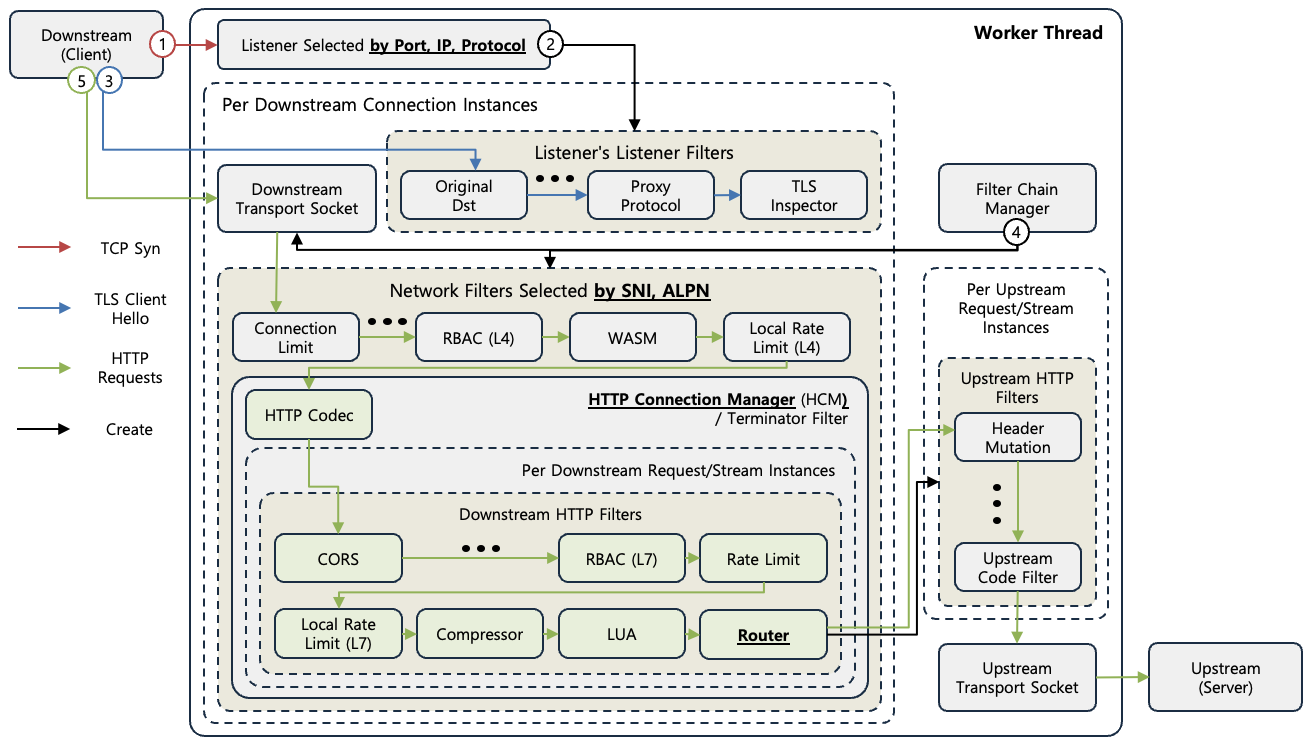
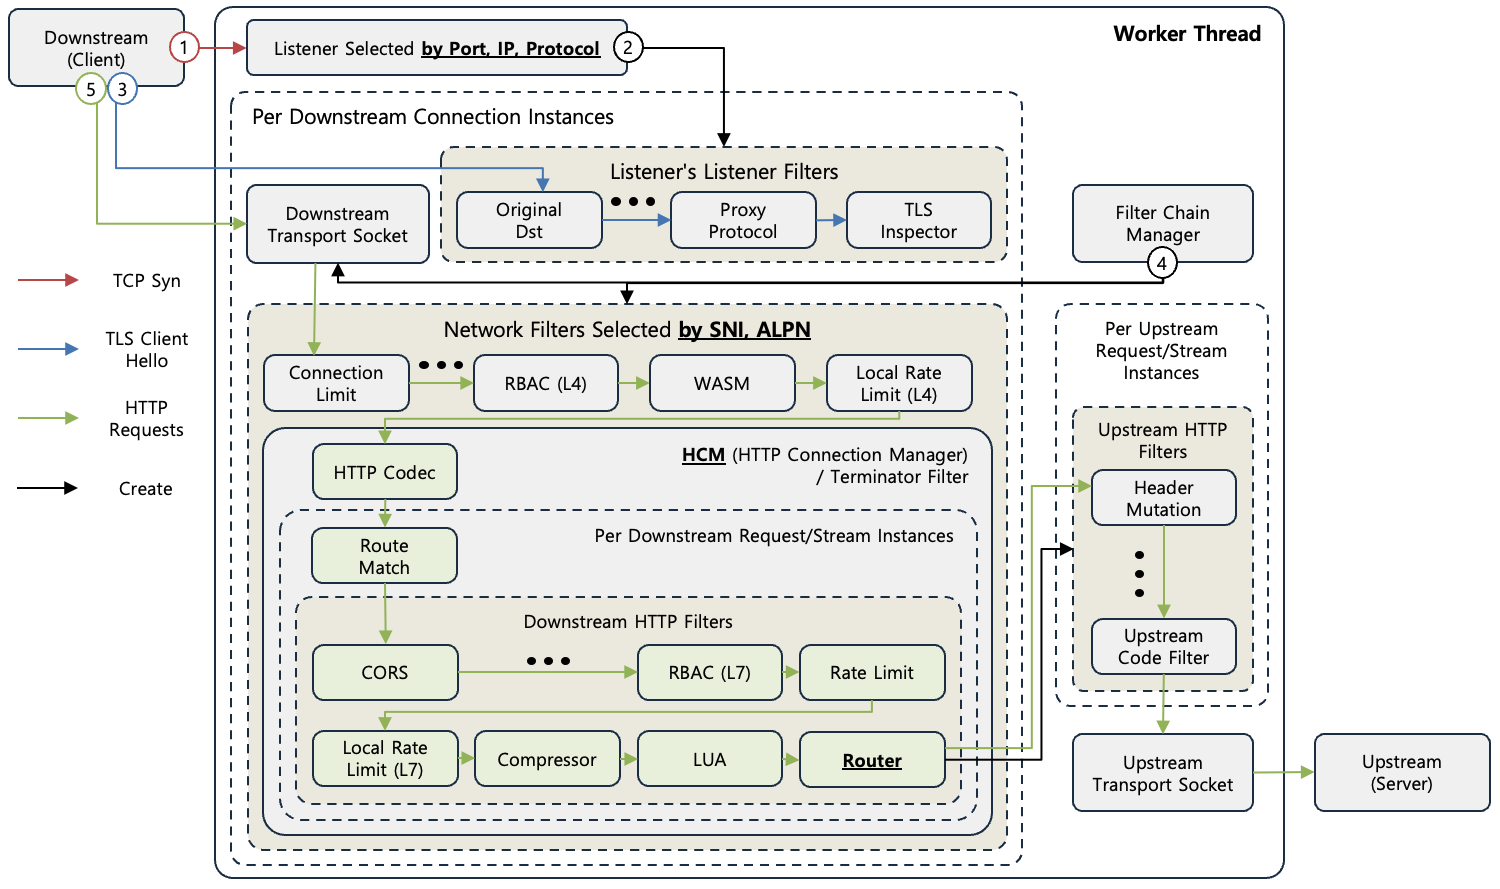
Add Route Match to Envoy traffic processing post for updated figure

Changed region(s): [[0.0, 0.0, 0.9992, 0.9866], [0.8431, 0.9558, 0.8743, 0.9866]]

diff --git a/content/docs/theory-analysis/envoy-traffic-processing/index.en.md b/content/docs/theory-analysis/envoy-traffic-processing/index.en.md
@@ -95,7 +95,11 @@ The **HTTP Connection Manager** (HCM) operates as the Terminal Network Filter th
 
 When request Traffic is sent from the Downstream to the Upstream, the **HTTP Codec** decodes the Stream and separates the Header and Body so that HTTP Filters can process it in a consistent form regardless of the HTTP Protocol Version. Conversely, when response Traffic is sent from the Upstream to the Downstream, it encodes the Stream to match the HTTP Protocol Version in use by the Downstream and sends it.
 
-##### 1.5.1.2. Downstream HTTP Filter
+##### 1.5.1.2. Route Match
+
+**Route Match** is responsible for selecting the Route that will handle a request from the Route Config, based on the request Headers separated by the HTTP Codec. A Route is selected by comparing the Domains of the Virtual Hosts and the Path, Header, and Query Parameter Match conditions of each Route, and the selected Route is cached in the Stream and referenced in later stages. Since Route Match runs before the Downstream HTTP Filters, each Downstream HTTP Filter can apply its behavior differently per Route by referring to the per-Route configuration (`typed_per_filter_config`) set on the selected Route.
+
+##### 1.5.1.3. Downstream HTTP Filter
 
 The **Downstream HTTP Filter** processes Traffic on an L7 basis before handing it to the Router. It can perform various functions such as authentication/authorization, Traffic limiting, and Traffic transformation. Downstream HTTP Filters can also be freely reordered, but the Router Filter must be located last.
 
@@ -130,9 +134,9 @@ The custom logic Filters provided by Envoy are as follows.
 * `envoy.filters.http.buffer` : Buffers the entire request.
 * `envoy.filters.http.health_check` : Handles a specific path as the Health Check response.
 
-##### 1.5.1.3. Router Filter
+##### 1.5.1.4. Router Filter
 
-The **Router Filter** is the Terminal Filter located at the end of the Downstream HTTP Filters, responsible for sending the request to the actual Upstream. For a request that has passed all the preceding Filters, it determines the **Target Cluster** according to the rules of the Route Config. Then, unhealthy Hosts among the Hosts belonging to the Cluster are excluded through the **Outlier Detection** policy. Afterwards, the actual Host is selected from the remaining healthy Hosts according to the **Load Balancing** policy, and the request is delivered through the connection to that Host.
+The **Router Filter** is the Terminal Filter located at the end of the Downstream HTTP Filters, responsible for sending the request to the actual Upstream. For a request that has passed all the preceding Filters, it determines the **Target Cluster** specified in the Route selected by Route Match. Then, unhealthy Hosts among the Hosts belonging to the Cluster are excluded through the **Outlier Detection** policy. Afterwards, the actual Host is selected from the remaining healthy Hosts according to the **Load Balancing** policy, and the request is delivered through the connection to that Host.
 
 The Router Filter provides the following Load Balancing policies.
 
@@ -203,6 +207,7 @@ static_resources:
         stat_prefix: ingress_http
         codec_type: AUTO                              # ── 7. HTTP Codec ──
 
+        # ── 8. Route Match ─────────────────────────────────────
         route_config:
           name: local_route
           virtual_hosts:
@@ -212,7 +217,7 @@ static_resources:
             - match: { prefix: "/" }
               route: { cluster: backend }
 
-        # ── 8. Downstream HTTP Filter ──────────────────────────
+        # ── 9. Downstream HTTP Filter ──────────────────────────
         http_filters:
         - name: envoy.filters.http.cors
         - name: envoy.filters.http.jwt_authn
@@ -221,7 +226,7 @@ static_resources:
         - name: envoy.filters.http.compressor
         - name: envoy.filters.http.lua
 
-        # ── 9. Router Filter (terminal filter of the downstream chain) ──
+        # ── 10. Router Filter (terminal filter of the downstream chain) ──
         - name: envoy.filters.http.router
 
     # (b) Match by ALPN — route h2 traffic to this chain
@@ -252,27 +257,27 @@ static_resources:
         explicit_http_config:
           http_protocol_options: {}
 
-        # ── 10. Upstream HTTP Filter ──────────────────────────
+        # ── 11. Upstream HTTP Filter ──────────────────────────
         http_filters:
         - name: envoy.filters.http.header_mutation
         - name: envoy.filters.http.lua
         - name: envoy.filters.http.upstream_codec        # terminal
 
-    # ── 11. Upstream Transport Socket (TLS origination) ────────
+    # ── 12. Upstream Transport Socket (TLS origination) ────────
     transport_socket:
       name: envoy.transport_sockets.tls
       sni: httpbin.org
 ```
 
-[Config 1] is an example showing where the components examined in Chapter 1 are defined in an actual Envoy configuration, and the numbers in the comments correspond to the components of [Figure 1]. For brevity, the detailed configuration of each Filter (`typed_config`) is omitted and only the Filter names are shown. It can be seen that the components in the Downstream direction (1-9) are defined under `listeners`, and the components in the Upstream direction (10-11) are defined under `clusters`.
+[Config 1] is an example showing where the components examined in Chapter 1 are defined in an actual Envoy configuration, and the numbers in the comments correspond to the components of [Figure 1]. For brevity, the detailed configuration of each Filter (`typed_config`) is omitted and only the Filter names are shown. It can be seen that the components in the Downstream direction (1-10) are defined under `listeners`, and the components in the Upstream direction (11-12) are defined under `clusters`.
 
 `main_listener` is the Listener that accepts Downstream connections on the `10000` Port (1), and `listener_filters` contains the Listener Filter Chain composed in the recommended order described in 1.2 (2). The SNI and ALPN information extracted by the Listener Filters is compared against the `filter_chain_match` conditions of each Filter Chain defined in `filter_chains` and used to select the one Filter Chain that will handle the connection, and this selection is the role of the Filter Chain Manager (3). In the example, Chain (a) is matched by SNI and Chain (b) is matched by ALPN.
 
 The `transport_socket` of the selected Filter Chain corresponds to the Downstream Transport Socket, and since the TLS Transport Socket is specified together with certificates, it performs TLS Termination and pushes Plain Text up to the Network Filter Chain (4). The Network Filter Chain is composed in `filters` (5), where the three Non-terminal Filters `connection_limit`, `rbac`, and `local_ratelimit` inspect the connection at the L4 level, and then the Terminal Filter, the HTTP Connection Manager, takes charge of HTTP processing (6). The `codec_type` of the HTTP Connection Manager is the setting that specifies the HTTP Codec, and since it is set to `AUTO`, the Codec matching the HTTP Version used by the Downstream is selected automatically (7).
 
-The `http_filters` of the HTTP Connection Manager composes the Downstream HTTP Filter Chain (8), and the Router Filter located at the end determines the Target Cluster according to the rules of `route_config` (9). The `route_config` in the example is a simple configuration that routes requests of every Domain (`*`) and every path (`/`) to the `backend` Cluster, and the actual Host is selected according to the Load Balancing policy specified in the `lb_policy` of the `backend` Cluster.
+The `route_config` of the HTTP Connection Manager defines the rules that Route Match uses to select a Route (8), and in the example it is a simple configuration where a single Route is selected for requests of every Domain (`*`) and every path (`/`). The `http_filters` composes the Downstream HTTP Filter Chain (9), and the Router Filter located at the end forwards the request to the `backend` Cluster specified in the selected Route (10), with the actual Host selected according to the Load Balancing policy specified in the `lb_policy` of the `backend` Cluster.
 
-The components in the Upstream direction are located in the definition of the Cluster that the Router Filter selects. The Upstream HTTP Filter Chain is composed as `http_filters` under the Cluster's `typed_extension_protocol_options`, and the `upstream_codec` Terminal Filter at the end is responsible for Encoding/Decoding in the Upstream direction (10). The Cluster's `transport_socket` corresponds to the Upstream Transport Socket, and since the TLS Transport Socket is specified, it performs TLS Origination, which encrypts the Traffic going out to the Upstream (11). In this way, the Listener's Transport Socket terminates TLS in the Downstream direction and the Cluster's Transport Socket newly starts TLS in the Upstream direction, so the Filter Chains between the two Transport Sockets always process Plain Text.
+The components in the Upstream direction are located in the definition of the Cluster that the Router Filter selects. The Upstream HTTP Filter Chain is composed as `http_filters` under the Cluster's `typed_extension_protocol_options`, and the `upstream_codec` Terminal Filter at the end is responsible for Encoding/Decoding in the Upstream direction (11). The Cluster's `transport_socket` corresponds to the Upstream Transport Socket, and since the TLS Transport Socket is specified, it performs TLS Origination, which encrypts the Traffic going out to the Upstream (12). In this way, the Listener's Transport Socket terminates TLS in the Downstream direction and the Cluster's Transport Socket newly starts TLS in the Upstream direction, so the Filter Chains between the two Transport Sockets always process Plain Text.
 
 ## 3. References
 

diff --git a/content/docs/theory-analysis/envoy-traffic-processing/index.md b/content/docs/theory-analysis/envoy-traffic-processing/index.md
@@ -95,7 +95,11 @@ virtual FilterStatus onWrite(Buffer::Instance& data, bool end_stream) PURE;
 
 **HTTP Codec**은 Downstream에서 Upstream으로 요청 Traffic을 전송하는 경우에는, HTTP Protocol Version에 관계없이 HTTP Filter가 일관된 형태로 처리할 수 있도록 Stream을 Decoding하여 Header와 Body를 분리한다. 반대로 Upstream에서 Downstream으로 응답 Traffic을 전송하는 경우에는, Downstream에서 이용중인 HTTP Protocol Version에 맞춰서 Stream을 Encoding하여 전송하는 역할을 수행한다.
 
-##### 1.5.1.2. Downstream HTTP Filter
+##### 1.5.1.2. Route Match
+
+**Route Match**는 HTTP Codec이 분리한 요청 Header를 기반으로, Route Config에서 해당 요청을 처리할 Route를 선택하는 역할을 수행한다. Virtual Host의 Domain과 각 Route의 Path, Header, Query Parameter Match 조건을 비교하여 Route를 선택하며, 선택된 Route는 Stream에 Cache되어 이후 단계에서 참조된다. Route Match가 Downstream HTTP Filter보다 먼저 수행되기 때문에, 각 Downstream HTTP Filter는 선택된 Route에 설정된 Route 단위 설정(`typed_per_filter_config`)을 참조하여 자신의 동작을 Route별로 다르게 적용할 수 있다.
+
+##### 1.5.1.3. Downstream HTTP Filter
 
 **Downstream HTTP Filter**는 Router에 넘기기 전에 L7 기반으로 Traffic을 처리하는 역할을 수행한다. 인증/인가, Traffic 제한, Traffic 가공 등의 다양한 기능을 수행할 수 있다. Downstream HTTP Filter도 자유롭게 순서를 변경하여 구성할 수 있지만, Router Filter는 반드시 마지막에 위치해야 한다.
 
@@ -130,9 +134,9 @@ Envoy에서 제공하는 커스텀 로직 Filter는 다음과 같다.
 * `envoy.filters.http.buffer` : 요청 전체를 Buffering.
 * `envoy.filters.http.health_check` : 특정 경로를 Health Check 응답으로 처리.
 
-##### 1.5.1.3. Router Filter
+##### 1.5.1.4. Router Filter
 
-**Router Filter**는 Downstream HTTP Filter 의 마지막에 위치하는 Terminal Filter로, 요청을 실제 Upstream으로 보내는 역할을 담당한다. 앞의 모든 Filter를 통과한 요청에 대해, Route Config의 규칙에 따라 **Target Cluster**를 결정한다. 이후 **Outlier Detection** 정책을 통해서 Cluster에 소속되어 있는 Host 중에서 비정상 Host를 제외한다. 이후에는 남은 정상 Host 중에서 **Load Balancing** 정책에 따라 실제 Host를 선택하고, 해당 Host로의 연결을 통해 요청을 전달한다.
+**Router Filter**는 Downstream HTTP Filter 의 마지막에 위치하는 Terminal Filter로, 요청을 실제 Upstream으로 보내는 역할을 담당한다. 앞의 모든 Filter를 통과한 요청에 대해, Route Match가 선택한 Route에 명시된 **Target Cluster**를 결정한다. 이후 **Outlier Detection** 정책을 통해서 Cluster에 소속되어 있는 Host 중에서 비정상 Host를 제외한다. 이후에는 남은 정상 Host 중에서 **Load Balancing** 정책에 따라 실제 Host를 선택하고, 해당 Host로의 연결을 통해 요청을 전달한다.
 
 Router Filter는 다음과 같은 Load Balancing 정책을 제공한다.
 
@@ -203,6 +207,7 @@ static_resources:
         stat_prefix: ingress_http
         codec_type: AUTO                              # ── 7. HTTP Codec ──
 
+        # ── 8. Route Match ─────────────────────────────────────
         route_config:
           name: local_route
           virtual_hosts:
@@ -212,7 +217,7 @@ static_resources:
             - match: { prefix: "/" }
               route: { cluster: backend }
 
-        # ── 8. Downstream HTTP Filter ──────────────────────────
+        # ── 9. Downstream HTTP Filter ──────────────────────────
         http_filters:
         - name: envoy.filters.http.cors
         - name: envoy.filters.http.jwt_authn
@@ -221,7 +226,7 @@ static_resources:
         - name: envoy.filters.http.compressor
         - name: envoy.filters.http.lua
 
-        # ── 9. Router Filter (terminal filter of the downstream chain) ──
+        # ── 10. Router Filter (terminal filter of the downstream chain) ──
         - name: envoy.filters.http.router
 
     # (b) Match by ALPN — route h2 traffic to this chain
@@ -252,27 +257,27 @@ static_resources:
         explicit_http_config:
           http_protocol_options: {}
 
-        # ── 10. Upstream HTTP Filter ──────────────────────────
+        # ── 11. Upstream HTTP Filter ──────────────────────────
         http_filters:
         - name: envoy.filters.http.header_mutation
         - name: envoy.filters.http.lua
         - name: envoy.filters.http.upstream_codec        # terminal
 
-    # ── 11. Upstream Transport Socket (TLS origination) ────────
+    # ── 12. Upstream Transport Socket (TLS origination) ────────
     transport_socket:
       name: envoy.transport_sockets.tls
       sni: httpbin.org
 ```
 
-[Config 1]은 1장에서 살펴본 구성 요소들이 실제 Envoy 설정의 어느 위치에 정의되는지 나타내는 예시이며, 주석의 번호는 [Figure 1]의 각 구성 요소에 대응한다. 분량상 각 Filter의 상세 설정(`typed_config`)은 생략하고 Filter 이름만 표기했다. Downstream 방향의 구성 요소(1-9)는 `listeners` 아래에, Upstream 방향의 구성 요소(10-11)는 `clusters` 아래에 정의된다는 것을 확인할 수 있다.
+[Config 1]은 1장에서 살펴본 구성 요소들이 실제 Envoy 설정의 어느 위치에 정의되는지 나타내는 예시이며, 주석의 번호는 [Figure 1]의 각 구성 요소에 대응한다. 분량상 각 Filter의 상세 설정(`typed_config`)은 생략하고 Filter 이름만 표기했다. Downstream 방향의 구성 요소(1-10)는 `listeners` 아래에, Upstream 방향의 구성 요소(11-12)는 `clusters` 아래에 정의된다는 것을 확인할 수 있다.
 
 `main_listener`는 `10000` Port에서 Downstream 연결을 수락하는 Listener이며 (1), `listener_filters`에는 1.2에서 설명한 권장 순서대로 Listener Filter Chain이 구성되어 있다 (2). Listener Filter가 추출한 SNI, ALPN 정보는 `filter_chains`에 정의된 각 Filter Chain의 `filter_chain_match` 조건과 비교되어 해당 연결을 처리할 Filter Chain 하나를 선택하는 데 사용되며, 이 선택이 Filter Chain Manager의 역할이다 (3). 예시에서는 (a) Chain이 SNI 기준으로, (b) Chain이 ALPN 기준으로 매칭된다.
 
 선택된 Filter Chain의 `transport_socket`은 Downstream Transport Socket에 해당하며, TLS Transport Socket이 인증서와 함께 지정되어 있어 TLS Termination을 수행한 뒤 Plain Text를 Network Filter Chain으로 올린다 (4). `filters`에는 Network Filter Chain이 구성되며 (5), `connection_limit`, `rbac`, `local_ratelimit` 세 Non-terminal Filter가 L4 수준에서 연결을 검사한 뒤 Terminal Filter인 HTTP Connection Manager가 HTTP 처리를 담당한다 (6). HTTP Connection Manager의 `codec_type`은 HTTP Codec을 지정하는 설정으로, `AUTO`로 설정되어 있어 Downstream이 이용하는 HTTP Version에 맞는 Codec이 자동으로 선택된다 (7).
 
-HTTP Connection Manager의 `http_filters`에는 Downstream HTTP Filter Chain이 구성되며 (8), 마지막에 위치하는 Router Filter가 `route_config`의 규칙에 따라 Target Cluster를 결정한다 (9). 예시의 `route_config`는 모든 Domain (`*`)의 모든 경로 (`/`) 요청을 `backend` Cluster로 라우팅하는 단순한 구성이며, `backend` Cluster의 `lb_policy`에 지정된 Load Balancing 정책에 따라 실제 Host가 선택된다.
+HTTP Connection Manager의 `route_config`는 Route Match가 Route를 선택할 때 이용하는 규칙을 정의하며 (8), 예시에서는 모든 Domain (`*`)의 모든 경로 (`/`) 요청에 하나의 Route가 선택되는 단순한 구성이다. `http_filters`에는 Downstream HTTP Filter Chain이 구성되며 (9), 마지막에 위치하는 Router Filter가 선택된 Route에 명시된 `backend` Cluster로 요청을 전달하고 (10), `backend` Cluster의 `lb_policy`에 지정된 Load Balancing 정책에 따라 실제 Host가 선택된다.
 
-Upstream 방향의 구성 요소는 Router Filter가 선택하는 Cluster의 정의에 위치한다. Upstream HTTP Filter Chain은 Cluster의 `typed_extension_protocol_options` 아래에 `http_filters`로 구성되며, 마지막의 `upstream_codec` Terminal Filter가 Upstream 방향의 Encoding/Decoding을 담당한다 (10). Cluster의 `transport_socket`은 Upstream Transport Socket에 해당하며, TLS Transport Socket이 지정되어 있어 Upstream으로 나가는 Traffic을 암호화하는 TLS Origination을 수행한다 (11). 이처럼 Downstream 방향은 Listener의 Transport Socket이 TLS를 종료하고 Upstream 방향은 Cluster의 Transport Socket이 TLS를 새로 시작하므로, 두 Transport Socket 사이의 Filter Chain들은 항상 Plain Text를 처리한다.
+Upstream 방향의 구성 요소는 Router Filter가 선택하는 Cluster의 정의에 위치한다. Upstream HTTP Filter Chain은 Cluster의 `typed_extension_protocol_options` 아래에 `http_filters`로 구성되며, 마지막의 `upstream_codec` Terminal Filter가 Upstream 방향의 Encoding/Decoding을 담당한다 (11). Cluster의 `transport_socket`은 Upstream Transport Socket에 해당하며, TLS Transport Socket이 지정되어 있어 Upstream으로 나가는 Traffic을 암호화하는 TLS Origination을 수행한다 (12). 이처럼 Downstream 방향은 Listener의 Transport Socket이 TLS를 종료하고 Upstream 방향은 Cluster의 Transport Socket이 TLS를 새로 시작하므로, 두 Transport Socket 사이의 Filter Chain들은 항상 Plain Text를 처리한다.
 
 ## 3. 참조
 
